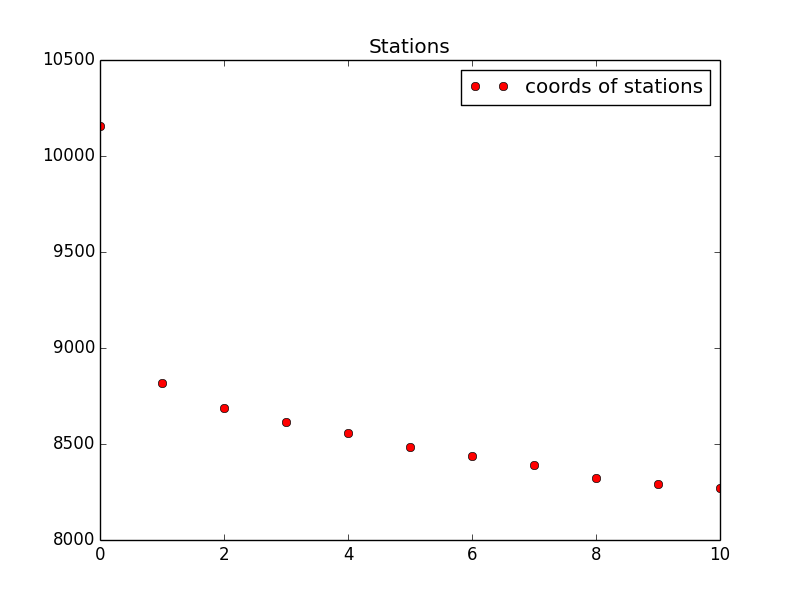
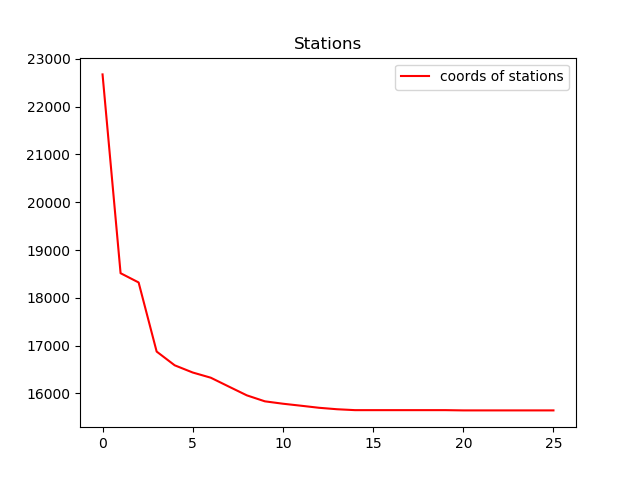
visualization 포함 조금 수정

diff --git a/GAOperator.py b/GAOperator.py
@@ -7,7 +7,7 @@ import copy
 
 class GAOperator:
     def __init__(self, DG, initial):
-        genes = []
+        self.genes = []
         self.costs = []
 
         Ngene = 1000 # the number of genes
@@ -16,25 +16,25 @@ class GAOperator:
 
         if initial == 'RAND':
             for i in range(Nggene):
-                genes.append(DG.generateRAND())
+                self.genes.append(DG.generateRAND())
         elif initial == 'OTOC':
             for i in range(Nggene):
-                genes.append(DG.generateOTOC())
+                self.genes.append(DG.generateOTOC())
         elif initial == 'CFSS':
             for i in range(Nggene):
-                genes.append(DG.generateCFSS())
+                self.genes.append(DG.generateCFSS())
 
         
         for i in range(Nggene, Ngene):
             i1 = random.randrange(Nggene)
             i2 = random.randrange(Nggene)
-            genes.append(genes[i1].crossover(genes[i2]))
+            self.genes.append(self.genes[i1].crossover(self.genes[i2]))
 
-        genes.sort(key = lambda gene : DG.getCost(gene))
-        self.costs.append(DG.getCost(genes[0]))
-        init = copy.deepcopy(genes[0])
+        self.genes.sort(key = lambda gene : DG.getCost(gene))
+        self.costs.append(DG.getCost(self.genes[0]))
+        self.init = copy.deepcopy(self.genes[0])
 
-        Nstep = 10 # the number of steps of evolution
+        Nstep = 25 # the number of steps of evolution
         INF = 10000000
 
         if self.costs[0] >= INF:
@@ -45,13 +45,13 @@ class GAOperator:
 
                 print("{idx} step is running".format(idx = i+1))
 
-                genes = genes[:Nggene]
+                self.genes = self.genes[:Nggene]
 
                 # Crossover
                 for j in range(Nggene, Ngene):
                     i1 = random.randrange(Nggene)
                     i2 = random.randrange(Nggene)
-                    genes.append(genes[i1].crossover(genes[i2]))
+                    self.genes.append(self.genes[i1].crossover(self.genes[i2]))
 
                 # Mutation
                 for j in range(Nggene, Ngene):
@@ -59,25 +59,25 @@ class GAOperator:
                         i1 = random.randrange(DG.n) + 1
                         # i2 = random.randrange(DG.m) + 1
                         i2 = DG.getSimilarRequest(i1 - 1) + 1
-                        genes[j].mutation(i1, i2)
+                        self.genes[j].mutation(i1, i2)
 
                 # Optimization
                 for j in range(Ngene):
-                    if DG.getCost(genes[j]) < INF:
-                        genes[j] = self.optimize(genes[j], DG)
-                        genes[j] = self.opt(genes[j], DG)
+                    if DG.getCost(self.genes[j]) < INF:
+                        self.genes[j] = self.optimize(self.genes[j], DG)
+                        self.genes[j] = self.opt(self.genes[j], DG)
 
-                genes.sort(key = lambda gene : DG.getCost(gene))
+                self.genes.sort(key = lambda gene : DG.getCost(gene))
 
                 for j in range(Ngene-1, 3, -1):
-                    if genes[j] == genes[j-4]:
-                        if len(genes) <= Nggene:
+                    if self.genes[j] == self.genes[j-4]:
+                        if len(self.genes) <= Nggene:
                             break
-                        del genes[j]
-                self.costs.append(DG.getCost(genes[0]))
+                        del self.genes[j]
+                self.costs.append(DG.getCost(self.genes[0]))
                 if(self.costs[i] > self.costs[i+1]) :
                     print("{}% improved".format((1-(self.costs[i+1]/self.costs[i]))*100))
-                    norm = (0.7078 * math.sqrt(2 * (DG.n + len(genes[0].trips))) + 0.551) * 100
+                    norm = (0.7078 * math.sqrt(2 * (DG.n + len(self.genes[0].trips))) + 0.551) * 100
                     if(self.costs[i+1] <= norm) :
                         print("reach lower bound of tsp {}".format(norm))
                         break
@@ -87,9 +87,9 @@ class GAOperator:
             print("%f %d th" %(self.costs[i], i+1))
         print("{}% improved".format((1-(self.costs[len(self.costs)-1]/self.costs[0]))*100))
         print('\nInit: ')
-        print(init)
+        print(self.init)
         print('\nResult : ')
-        print(genes[0])
+        print(self.genes[0])
 
         pass
 

diff --git a/Simulator.py b/Simulator.py
@@ -9,7 +9,7 @@ def main():
     INF = 10000000
 
     MAP = MapGenerator(m=10)
-    Reqs = RequestGenerator(Map = MAP, typ = 'AR', n = 50)
+    Reqs = RequestGenerator(Map = MAP, typ = 'AR', n = 100, T = 1000)
     DG = DataGenerator(MG = MAP, RG = Reqs)
     cfss = DG.generateCFSS() # for available map test
 
@@ -24,7 +24,7 @@ def main():
     print(MAP)
     print(Reqs)
     V = Visualization()
-    V.drawPoints([coord[0] for coord in MAP.stations], [coord[1] for coord in MAP.stations], 'stations')
+    V.drawPoints([coord[0] for coord in MAP.stations], [coord[1] for coord in MAP.stations], 'stations', 'ro')
 
     # print("generating otoc...")
     # otoc = DG.generateOTOC()
@@ -42,7 +42,40 @@ def main():
 
     GAOP = GAOperator(DG, 'CFSS')
 
-    V.drawPoints(range(len(GAOP.costs)), GAOP.costs, 'costs for each generation')
+    V.drawPoints(range(len(GAOP.costs)), GAOP.costs, 'costs for each generation', 'r-')
+
+    unavoid = 0
+
+    for request in Reqs.requests:
+        unavoid += MAP.dists[request[1]][request[3]]
+
+    print("unavoid: {d}".format(d = unavoid))
+
+    print("INIT: {c}".format(c = DG.getCost(GAOP.init) - unavoid))
+    print("FINAL: {c}".format(c = DG.getCost(GAOP.genes[0]) - unavoid))
+
+    print(GAOP.init);
+
+    for (i, trip) in enumerate(GAOP.init.trips):
+        points = []
+        for request in trip:
+            if request > 0:
+                points.append(MAP.stations[Reqs.requests[request-1][1]][0:2])
+            else:
+                points.append(MAP.stations[Reqs.requests[-request-1][3]][0:2])
+        V.drawPoints(list(map(lambda p: p[0], points)), list(map(lambda p: p[1], points)), 'routes/init/stations of shuttle {i}'.format(i = i), 'r-')
+
+    print(GAOP.genes[0]);
+
+    for (i, trip) in enumerate(GAOP.genes[0].trips):
+        points = []
+        for request in trip:
+            if request > 0:
+                points.append(MAP.stations[Reqs.requests[request-1][1]][0:2])
+            else:
+                points.append(MAP.stations[Reqs.requests[-request-1][3]][0:2])
+        V.drawPoints(list(map(lambda p: p[0], points)), list(map(lambda p: p[1], points)), 'routes/final/stations of shuttle {i}'.format(i = i), 'r-')
+
 
     # print("\nCFSS Initial Result")
     # print(cfss)

diff --git a/Visualization.py b/Visualization.py
@@ -12,10 +12,10 @@ class Visualization:
     def __str__(self):
         pass
 
-    def drawPoints(self, xs, ys, filestr):
+    def drawPoints(self, xs, ys, filestr, opts):
         fig = plt.figure()
         plt.subplot(111)
-        plt.plot(xs, ys, 'ro', label = 'coords of stations')
+        plt.plot(xs, ys, opts, label = 'coords of stations')
         plt.title('Stations')
         plt.legend()
 
